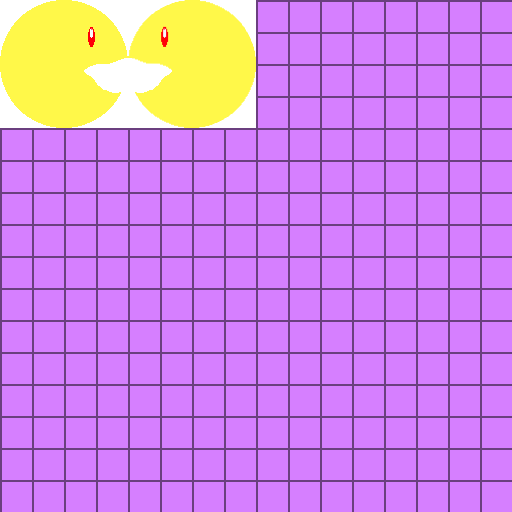
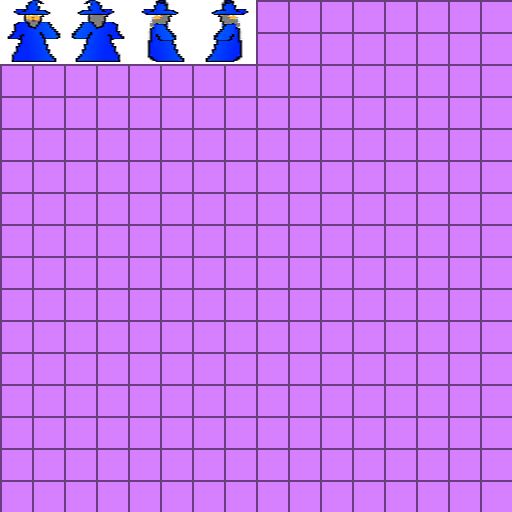
* Added two extra textures to Entity, so now there are TEXTURE_FRONT, TEXTURE_BACK, TEXTURE_LEFT, TEXTURE_RIGHT.
* Made new textures for Player. Gandlaf?

** Previous commit without comment added a maxVelX and maxVelY to player, while also updating the physics engine to limit the velocity to those maximums.

Changed region(s): [[0.0, 0.0, 0.5, 0.25]]

diff --git a/SDL_Setup/main.cpp b/SDL_Setup/main.cpp
@@ -7,6 +7,7 @@ The SDL setup functions used in this code were created by following the lazyfoo 
 #include "SDL_image.h"
 #include "constants.cpp"
 #include "Physics.h"
+#include "Timer.h"
 #include <string>
 #include <fstream>
 #include <vector>
@@ -170,6 +171,8 @@ void defineClip(int code_in)
 
 int main( int argc, char* args[] )
 {		
+	Timer fpsTimer;
+
 	//initialize the currentMap object with the mapFileName text file
 	string mapFileName = "map_001.txt";
 	TerrainMap currentMap = TerrainMap(mapFileName);	
@@ -177,6 +180,8 @@ int main( int argc, char* args[] )
 	//define the clips (clip up the texture files)
 	defineClip(CODE_TERRAIN);
 	defineClip(CODE_ENTITY);
+
+	int counter = 0;
 
     bool quit = false;
 
@@ -198,6 +203,8 @@ int main( int argc, char* args[] )
 	//***********************************************************************************
     while( !quit )
     {
+		fpsTimer.start();
+
         //While there's events to handle
         while( SDL_PollEvent( &event ) )
         {
@@ -243,10 +250,15 @@ int main( int argc, char* args[] )
 			}
         }		
 		
-		Physics::doPhysics(vector_players);
+			Physics::doPhysics(vector_players);
 		
+	
+		//if(++counter == 5)
+		//{
 		//apply the terrain 
 		display(CODE_TERRAIN, currentMap);
+		//counter = 0;
+		//}
 		//apply the entities
 		display(CODE_ENTITY, currentMap);
 
@@ -255,6 +267,13 @@ int main( int argc, char* args[] )
 		{
 			return 1;
 		}
+
+		//If we want to cap the frame rate
+        if(fpsTimer.get_ticks() < 1000 / FRAMES_PER_SECOND)
+        {
+            //Sleep the remaining frame time
+            SDL_Delay((1000 / FRAMES_PER_SECOND) - fpsTimer.get_ticks());
+        }
     }
     //***********************************************************************************
 	//*********** End of the game loop **************************************************

diff --git a/SDL_Setup/Timer.cpp b/SDL_Setup/Timer.cpp
@@ -1,0 +1,94 @@
+#include "Timer.h"
+#include "SDL.h"
+using namespace std;
+
+Timer::Timer()
+{
+	//Initialize the variables
+	startTicks = 0;
+	pausedTicks = 0;
+	paused = false;
+	started = false;    
+}
+
+void Timer::start()
+{
+	//Start the timer
+	started = true;
+    
+	//Unpause the timer
+	paused = false;
+    
+	//Get the current clock time
+	startTicks = SDL_GetTicks();    
+}
+
+void Timer::stop()
+{
+	//Stop the timer
+	started = false;
+    
+	//Unpause the timer
+	paused = false;    
+}
+
+int Timer::get_ticks()
+{
+	//If the timer is running
+	if( started == true )
+	{
+		//If the timer is paused
+		if( paused == true )
+		{
+			//Return the number of ticks when the timer was paused
+			return pausedTicks;
+		}
+		else
+		{
+			//Return the current time minus the start time
+			return SDL_GetTicks() - startTicks;
+		}    
+	}
+
+	//If the timer isn't running
+	return 0;    
+}
+
+void Timer::pause()
+{
+	//If the timer is running and isn't already paused
+	if( ( started == true ) && ( paused == false ) )
+	{
+		//Pause the timer
+		paused = true;
+    
+		//Calculate the paused ticks
+		pausedTicks = SDL_GetTicks() - startTicks;
+	}
+}
+
+void Timer::unpause()
+{
+	//If the timer is paused
+	if( paused == true )
+	{
+		//Unpause the timer
+		paused = false;
+    
+		//Reset the starting ticks
+		startTicks = SDL_GetTicks() - pausedTicks;
+        
+		//Reset the paused ticks
+		pausedTicks = 0;
+	}
+}
+
+bool Timer::is_started()
+{
+	return started;    
+}
+
+bool Timer::is_paused()
+{
+	    return paused;
+}

diff --git a/SDL_Setup/Player.cpp b/SDL_Setup/Player.cpp
@@ -22,15 +22,23 @@ Player::Player (int clipX_in, int clipY_in)
 	this->posX = 100;
 	this->posY = 100;
 
-	this->currentTexture = TEXTURE_RIGHT;
-	this->rect[TEXTURE_RIGHT].x = clipX_in;
-	this->rect[TEXTURE_RIGHT].y = clipY_in;
-	this->rect[TEXTURE_RIGHT].w = ENTITY_CLIP_W;
-	this->rect[TEXTURE_RIGHT].h = ENTITY_CLIP_H;
-	this->rect[TEXTURE_LEFT].x = clipX_in + ENTITY_CLIP_W;
+	this->currentTexture = TEXTURE_FRONT;
+	this->rect[TEXTURE_FRONT].x = clipX_in;
+	this->rect[TEXTURE_FRONT].y = clipY_in;
+	this->rect[TEXTURE_FRONT].w = ENTITY_CLIP_W;
+	this->rect[TEXTURE_FRONT].h = ENTITY_CLIP_H;
+	this->rect[TEXTURE_BACK].x = clipX_in + ENTITY_CLIP_W * 1;
+	this->rect[TEXTURE_BACK].y = clipY_in;
+	this->rect[TEXTURE_BACK].w = ENTITY_CLIP_W;
+	this->rect[TEXTURE_BACK].h = ENTITY_CLIP_H;
+	this->rect[TEXTURE_LEFT].x = clipX_in + ENTITY_CLIP_W * 2;
 	this->rect[TEXTURE_LEFT].y = clipY_in;
 	this->rect[TEXTURE_LEFT].w = ENTITY_CLIP_W;
 	this->rect[TEXTURE_LEFT].h = ENTITY_CLIP_H;
+	this->rect[TEXTURE_RIGHT].x = clipX_in + ENTITY_CLIP_W * 3;
+	this->rect[TEXTURE_RIGHT].y = clipY_in;
+	this->rect[TEXTURE_RIGHT].w = ENTITY_CLIP_W;
+	this->rect[TEXTURE_RIGHT].h = ENTITY_CLIP_H;
 
 	for(int i = 0; i < 4; i++)
 	{

diff --git a/SDL_Setup/constants.cpp b/SDL_Setup/constants.cpp
@@ -2,6 +2,7 @@
 const int SCREEN_WIDTH = 1280;
 const int SCREEN_HEIGHT = 960;
 const int SCREEN_BPP = 32;
+const int FRAMES_PER_SECOND = 100;
 
 //terrain file attributes
 const int TERRAIN_FILE_W = 512;
@@ -13,13 +14,13 @@ const int TERRAIN_CLIP_COUNT = 7;
 //entity file attributes
 const int ENTITY_FILE_W = 512;
 const int ENTITY_FILE_H = 512;
-const int ENTITY_CLIP_W = 128;
-const int ENTITY_CLIP_H = 128;
+const int ENTITY_CLIP_W = 64;
+const int ENTITY_CLIP_H = 64;
 
 // constants for function parameters
 enum { CODE_TERRAIN, CODE_ENTITY };
 
-enum { TEXTURE_RIGHT, TEXTURE_LEFT };
+enum { TEXTURE_FRONT, TEXTURE_BACK, TEXTURE_LEFT, TEXTURE_RIGHT };
 
 //constants for physics
 const double FRICTION = 3;

diff --git a/SDL_Setup/Timer.h b/SDL_Setup/Timer.h
@@ -1,0 +1,35 @@
+#ifndef TIMER_H
+#define TIMER_H
+
+class Timer
+{
+private:
+	//The clock time when the timer started
+	int startTicks;
+    
+	//The ticks stored when the timer was paused
+	int pausedTicks;
+    
+	//The timer status
+	bool paused;
+	bool started;
+    
+public:
+	//Initializes variables
+	Timer();
+    
+	//The various clock actions
+	void start();
+	void stop();
+	void pause();
+	void unpause();
+    
+	//Gets the timer's time
+	int get_ticks();
+    
+	//Checks the status of the timer
+	bool is_started();
+	bool is_paused();    
+};
+
+#endif

diff --git a/SDL_Setup/Physics.cpp b/SDL_Setup/Physics.cpp
@@ -24,9 +24,11 @@ void Physics::doPhysics(vector<Player>& inVector)
 				break;
 			case KEY_UP:
 				inVector.at(0).forceY = inVector.at(0).forceY - WALKING_FORCE;
+				inVector.at(0).toggleTexture(TEXTURE_BACK);
 				break;
 			case KEY_DOWN:
 				inVector.at(0).forceY += WALKING_FORCE;
+				inVector.at(0).toggleTexture(TEXTURE_FRONT);
 				break;
 			}
 		}

diff --git a/SDL_Setup/Entity.h b/SDL_Setup/Entity.h
@@ -16,7 +16,7 @@ public:
 	int	posX, //the x to display this Entity's texture at if the Entity is active
 		posY; //the y to display this Entity's texture at if the Entity is active
 
-	SDL_Rect rect[2]; //to hold the clip(s) (of the textures)
+	SDL_Rect rect[4]; //to hold the clip(s) (of the textures)
 
 	Entity();
 
